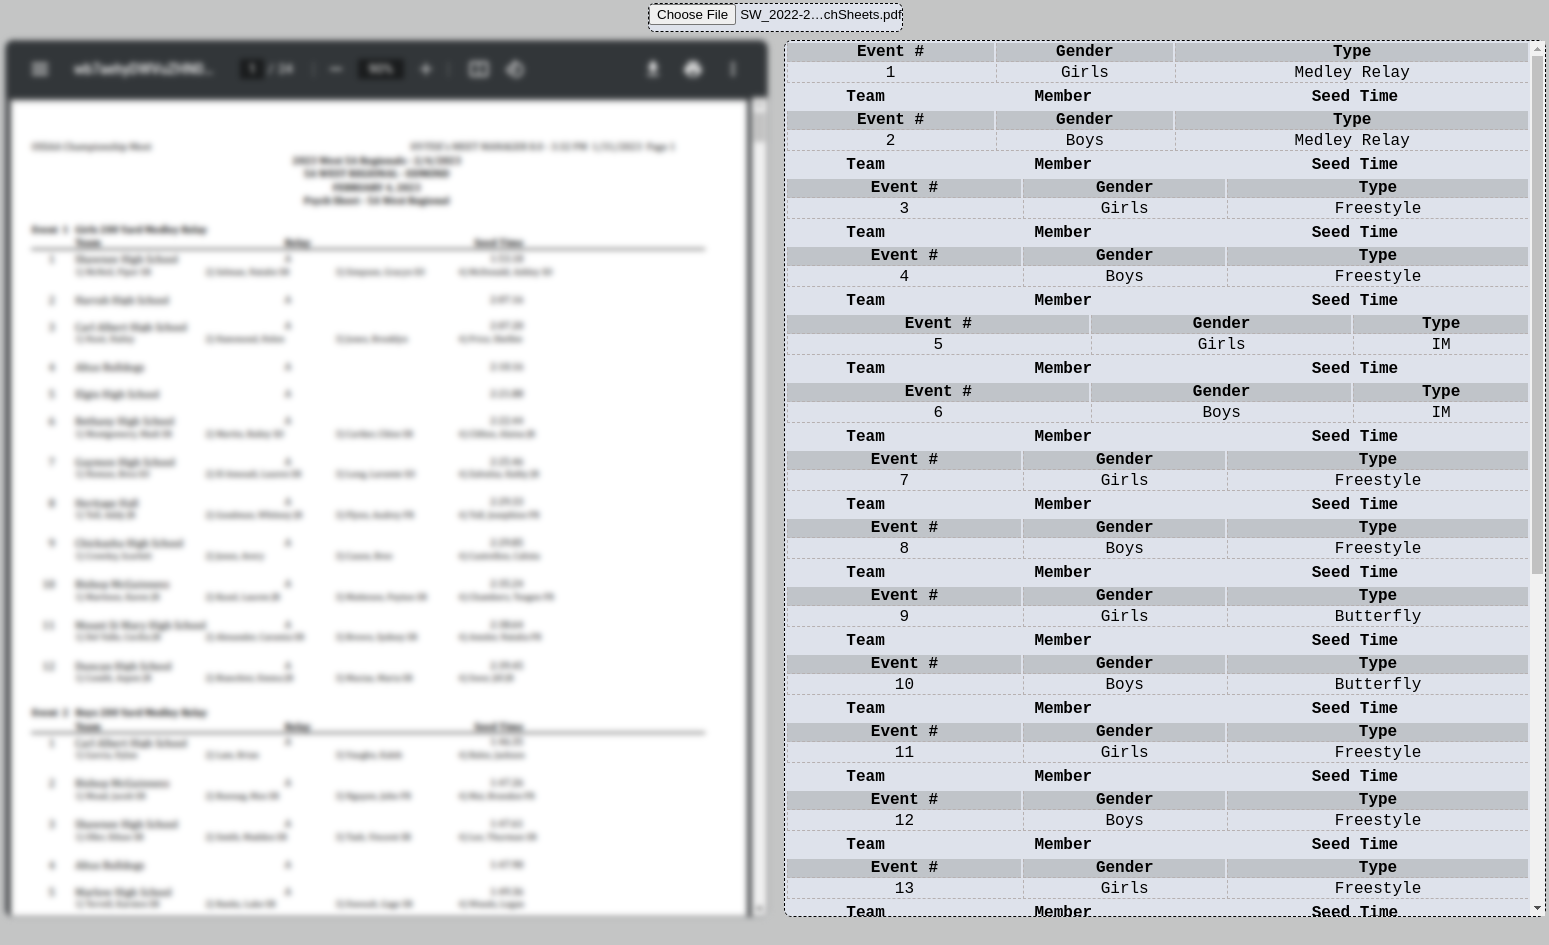
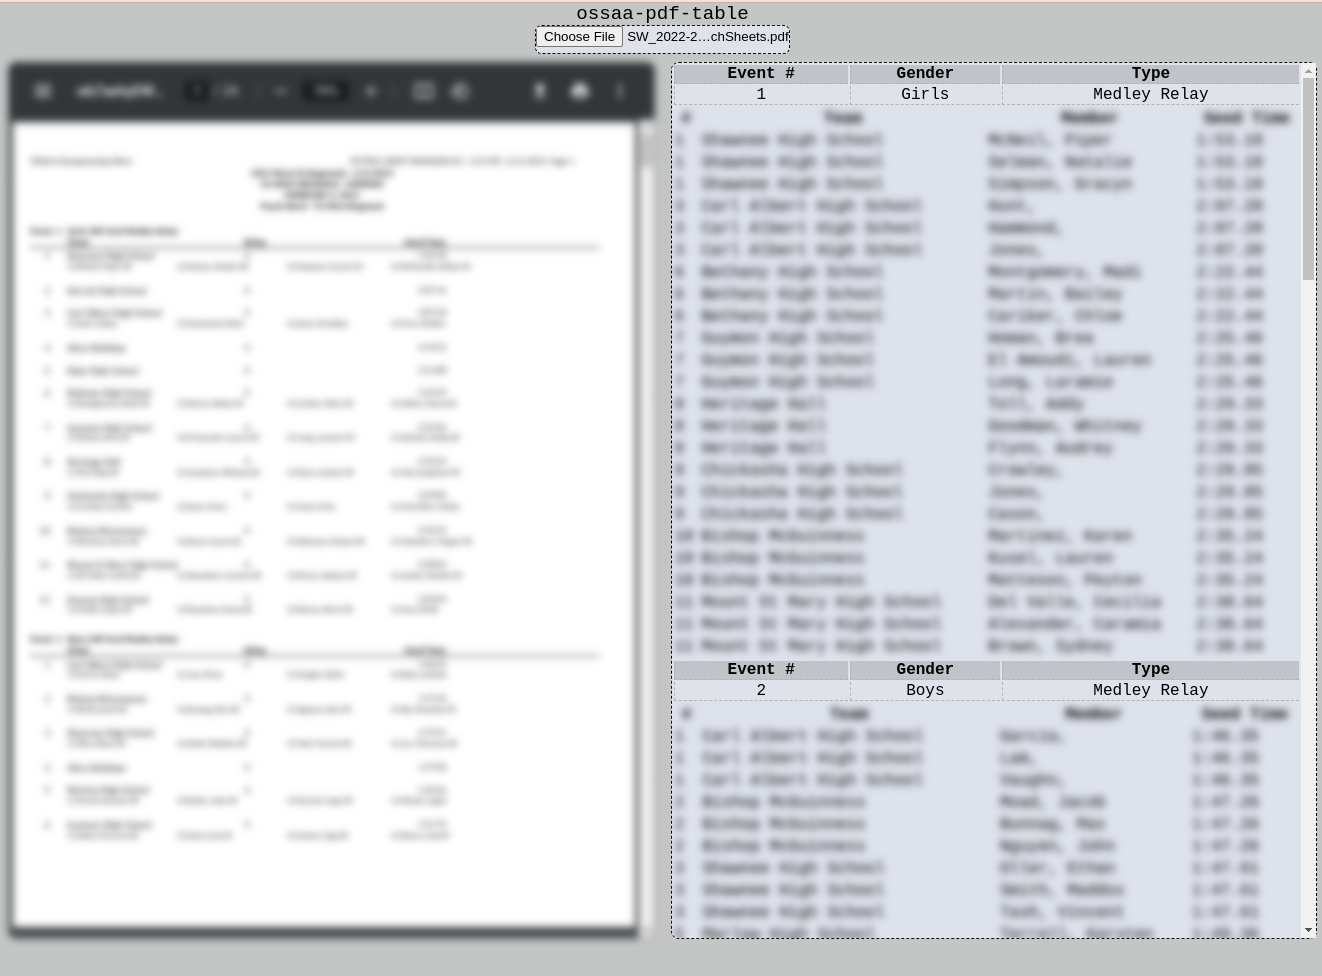
update readme and example.png

diff --git a/ReadMe.md b/ReadMe.md
@@ -19,6 +19,8 @@ Not finished yet, a bit more parsing to do, then some testing
 - Swim meet specific parsing code
   - Event #, gender, type
   - Teams header
+  - Team #, name, member names, seed time
+
 
 ## Dependencies
 [@bundled-es-modules/pdfjs-dist](https://npmjs.com/@bundled-es-modules/pdfjs-dist) - npm ES module of Mozilla's pdfjs, for parsing text from PDFs
